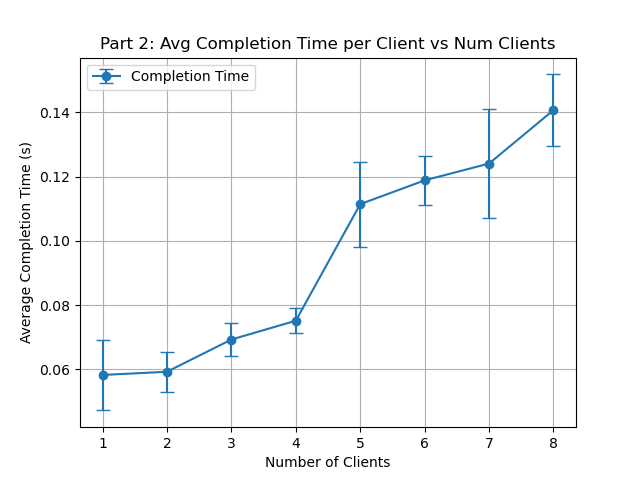
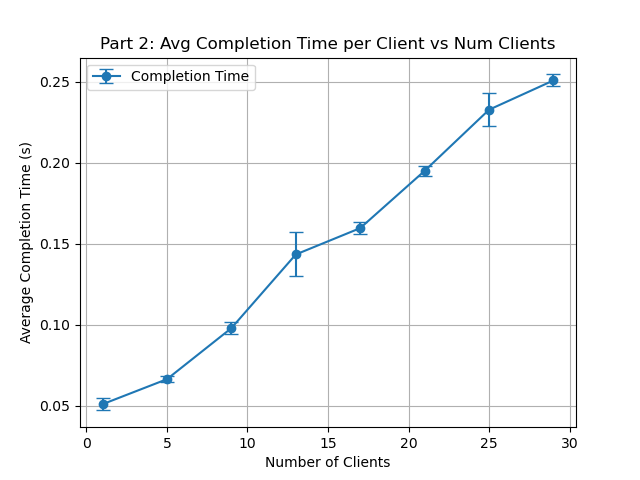
DONE ASS2

diff --git a/Assignment 2/part2/runner.py b/Assignment 2/part2/runner.py
@@ -1,8 +1,8 @@
-import subprocess
 import time
 import statistics
-import json
 import os
+from topology import create_network
+from mininet.log import setLogLevel
 
 OUTPUT_DIR = "output"
 os.makedirs(OUTPUT_DIR, exist_ok=True)
@@ -10,37 +10,44 @@ os.makedirs(OUTPUT_DIR, exist_ok=True)
 def run_experiment(num_clients, repetitions):
     completion_times = []
 
-    for rep in range(repetitions):
-        clients = []
+    for _ in range(repetitions):
+        net = create_network(num_clients=num_clients)
+        
+        server = net.get('server')
+        clients = [net.get(f'client{i+1}') for i in range(num_clients)]
+
+        server.cmd('python3 server.py &')
+        time.sleep(1)
+
         start_time = time.time()
 
-        for _ in range(num_clients):
-            p = subprocess.Popen(
-                ["python3", "client.py"],
-                stdout=subprocess.DEVNULL,
-                stderr=subprocess.DEVNULL
-            )
-            clients.append(p)
-
-        for p in clients:
-            p.wait()
+        client_processes = []
+        for client in clients:
+            proc = client.popen('python3 client.py')
+            client_processes.append(proc)
+        
+        for proc in client_processes:
+            proc.wait()
 
         end_time = time.time()
         duration = end_time - start_time
         completion_times.append(duration)
+        
+        server.cmd('kill %python3')
+        net.stop()
 
     avg = statistics.mean(completion_times)
     ci95 = 1.96 * (statistics.pstdev(completion_times) / (len(completion_times) ** 0.5))
     return avg, ci95
 
 if __name__ == "__main__":
-    with open("config.json") as f:
-        cfg = json.load(f)
+    setLogLevel('info')
 
+    max_clients = 32
     repetitions = 5
     results = []
 
-    for n in range(1, cfg["num_clients"] + 1,4): 
+    for n in range(1, max_clients + 1, 4):
         avg, ci95 = run_experiment(n, repetitions)
         results.append((n, avg, ci95))
 

diff --git a/Assignment 2/part2/topology.py b/Assignment 2/part2/topology.py
@@ -1,0 +1,60 @@
+#!/usr/bin/env python3
+
+from mininet.topo import Topo
+from mininet.net import Mininet
+from mininet.node import OVSSwitch
+from mininet.cli import CLI
+from mininet.log import setLogLevel
+from mininet.link import TCLink
+
+
+DEFAULT_CLIENTS = 10
+
+BANDWIDTH = 1 
+DELAY = '10ms'  
+BUFFER_SIZE = 1000  
+
+class SimpleTopo(Topo):
+    def __init__(self, num_clients=DEFAULT_CLIENTS):
+        Topo.__init__(self)
+        
+        # Create switch
+        switch = self.addSwitch('s1', cls=OVSSwitch)
+        
+        # Create server
+        server = self.addHost('server', ip='10.0.0.100')
+        
+        # Create clients
+        clients = []
+        for i in range(num_clients):
+            client = self.addHost(f'client{i+1}', ip=f'10.0.0.{i+1}')
+            clients.append(client)
+        
+        # Connect server to switch with hardcoded bandwidth=1
+        self.addLink(server, switch, bw=1)
+        
+        # Connect all clients to switch with hardcoded bandwidth=1
+        for client in clients:
+            self.addLink(client, switch, bw=1)
+
+def create_network(num_clients=DEFAULT_CLIENTS):
+   
+    topo = SimpleTopo(num_clients)
+    net = Mininet(topo=topo, switch=OVSSwitch, link=TCLink)
+    net.start()
+    return net
+
+if __name__ == '__main__':
+    setLogLevel('info')
+    
+    # Test with hardcoded configuration
+   
+    
+    net = create_network()  # Uses hardcoded values
+    
+    
+    print("Hosts:", [h.name for h in net.hosts])
+    print("Links:", [(link.intf1.node, link.intf2.node) for link in net.links])
+    
+    CLI(net)
+    net.stop()

diff --git a/Assignment 2/part2/server.py b/Assignment 2/part2/server.py
@@ -157,10 +157,8 @@ class WordServer:
             
             request = data.decode('utf-8')
             
-            # Process the request and get response
             response = self.process_request(request)
             
-            # Send response back to client
             client_socket.send(response.encode('utf-8'))
             
             print("*" * 50)
@@ -187,7 +185,7 @@ class WordServer:
         try:
             # Create and configure server socket
             self.server_socket = socket.socket(socket.AF_INET, socket.SOCK_STREAM)
-            self.server_socket.setblocking(False)  # Non-blocking mode
+            self.server_socket.setblocking(False)  
             print(f"Socket created successfully")
             
             # Set SO_REUSEADDR
@@ -197,17 +195,17 @@ class WordServer:
             # Bind socket
             server_ip = self.config.server_ip
             if server_ip == "INADDR_ANY" or server_ip == "":
-                server_ip = ''  # Bind to all interfaces
+                server_ip = '' 
             
             self.server_socket.bind((server_ip, self.config.server_port))
             print("Socket bind successful")
             
-            # Listen for connections
+            
             self.server_socket.listen(self.max_clients)
             print(f"Server listening on {self.config.server_ip}:{self.config.server_port}")
           
             
-            # Main event loop using select()
+            
             while True:
                 try:
                     # Prepare socket lists for select()

diff --git a/Assignment 2/part2/plot_results.py b/Assignment 2/part2/plot_results.py
@@ -15,7 +15,7 @@ if os.path.exists(output_plot):
         os.remove(output_plot)
         print(f"Removed old plot: {output_plot}")
     except PermissionError:
-        print(f"⚠ Permission error removing old plot. Try: sudo rm {output_plot}")
+        print(f"Permission error removing old plot. Try: sudo rm {output_plot}")
         exit(1)
 
 clients = []
@@ -38,4 +38,4 @@ plt.grid(True)
 plt.savefig(output_plot)
 plt.show()
 
-print(f"\n✅ Plot saved as {output_plot}")
+print(f"\nPlot saved as {output_plot}")
